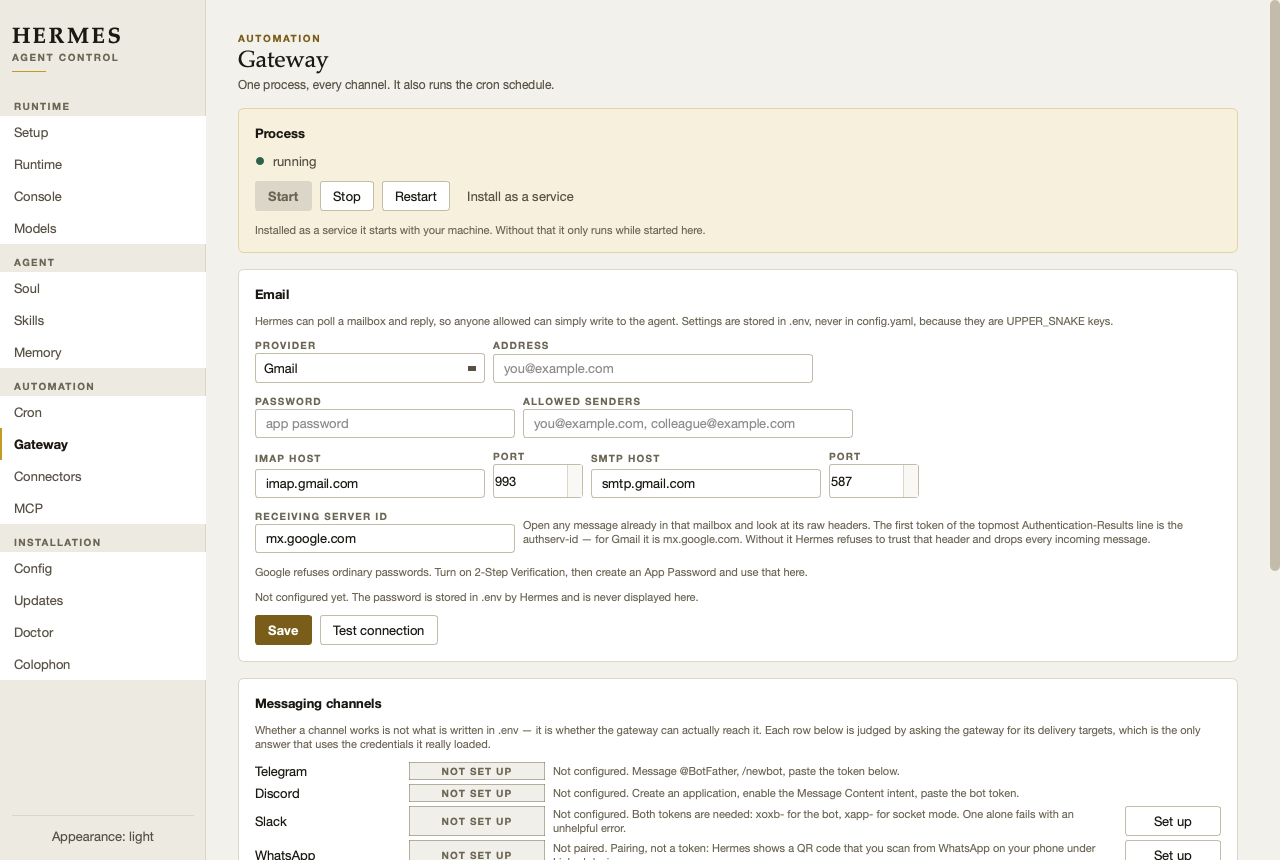
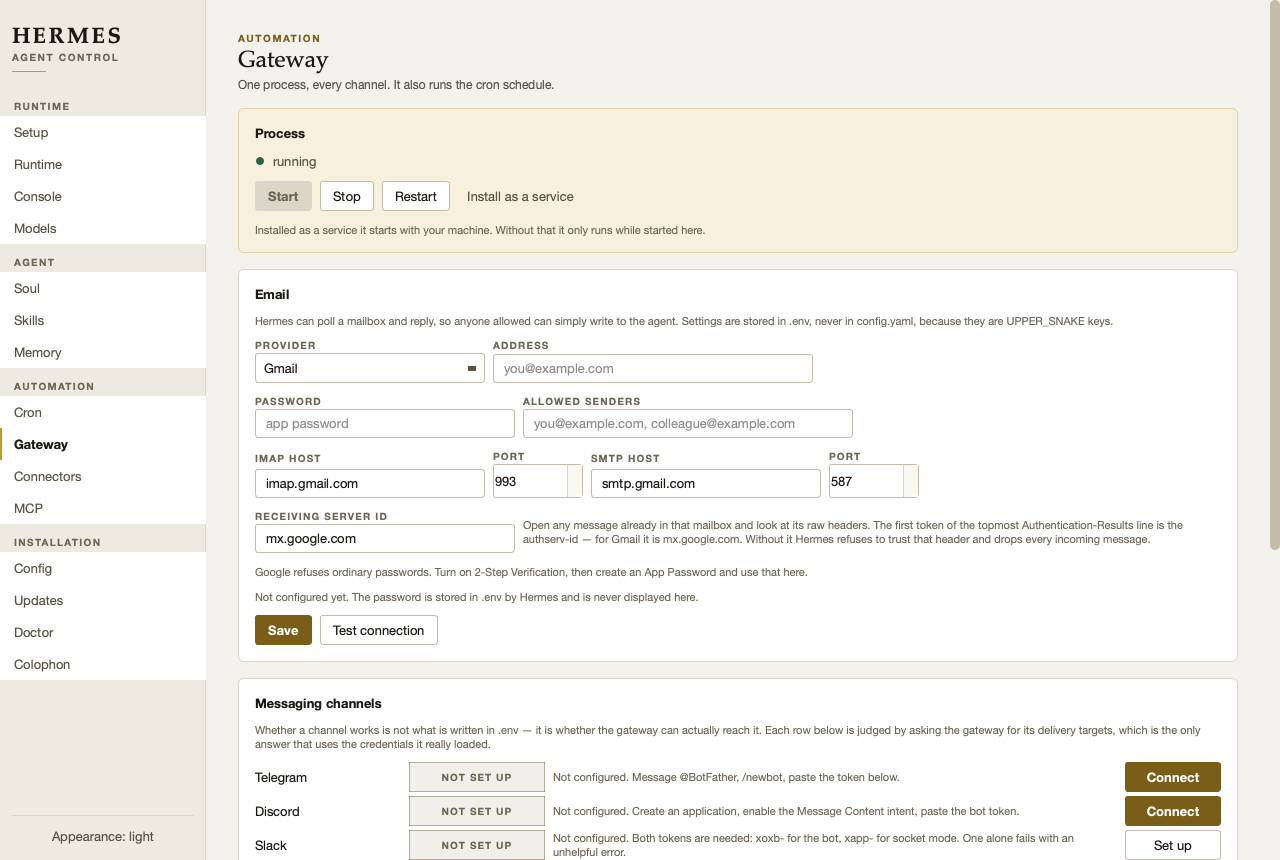
Gateway: a place to paste the token it tells you to paste
The Telegram row read "Message @BotFather, /newbot, paste the token
below" and there was nothing below. Every token-based channel said what
to do and offered nowhere to do it, so the only route was editing .env
by hand — which is exactly the thing this app exists to avoid.

Channels whose setup is a few secrets now get a Connect button and a
form: one field per secret, the allowlist beside them, and a save that
restarts the gateway. The restart is the point — the gateway reads
credentials at start, so without it the page would go on correctly but
uselessly reporting "configured, but not reachable".

Two refusals in the form rather than two confusing failures later. A
partial setup is rejected by name (Slack needs both tokens and fails
with an unhelpful error on one), and an empty secret field means "keep
what is stored", not "erase it" — the field never shows the stored
value, so treating blank as a deletion would silently disconnect a
working channel the moment someone opened the form to look at it.

The allowlist carries the warning that matters: Hermes denies anyone not
listed and says nothing when it does, so a channel left empty connects,
receives your message and ignores it, which is indistinguishable from a
broken bot.

WhatsApp and Slack keep Set up — a QR pairing and a manifest are not
fields.

diff --git a/hermes_control/ui/pages/gateway.py b/hermes_control/ui/pages/gateway.py
@@ -126,6 +126,32 @@ class GatewayPage(Page):
         card.add(self._allow_warning)
         layout.addWidget(card)
 
+        # One channel's credentials at a time. Slack needs two tokens and
+        # Teams three, so a field per secret inline in the row would make
+        # the table unreadable; opening a form keeps each channel's shape
+        # its own business.
+        self._form = w.Card("Connect a channel", accent=True)
+        self._form_title = w.label("", "body_bold")
+        self._form.add(self._form_title)
+        self._form_help = w.label("", "Faint", wrap=True)
+        self._form.add(self._form_help)
+        self._form_fields = QVBoxLayout()
+        self._form_fields.setSpacing(8)
+        self._form.add_layout(self._form_fields)
+        self._form_status = w.label("", "Faint", wrap=True)
+        self._form.add(self._form_status)
+        self._form.add(w.row(
+            w.button("Save and restart the gateway", "Primary",
+                     self._save_channel),
+            w.button("Cancel", "Quiet",
+                     lambda: self._form.setVisible(False)),
+            w.spacer()))
+        self._form.setVisible(False)
+        self._editing = None
+        self._inputs = {}
+        self._env: dict = {}
+        layout.addWidget(self._form)
+
         # Proof, rather than inference: a message that arrives came through
         # the gateway's own delivery path, with no model and no agent loop
         # in the way to be blamed for a failure.
@@ -295,6 +321,7 @@ class GatewayPage(Page):
             item = self._channel_box.takeAt(0)
             if item.widget():
                 item.widget().deleteLater()
+        self._env = data["secrets_full"]
         survey = data["survey"]
         words = {"live": ("CONNECTED", "live"),
                  "blocked": ("NOBODY ALLOWED", "attention"),
@@ -322,6 +349,14 @@ class GatewayPage(Page):
                 action = w.button(
                     "Set up", "",
                     lambda c=state.channel: self._setup_channel(c))
+            elif state.channel.secrets and state.state != "live":
+                # The row used to say "paste the token below" with nothing
+                # below to paste it into. A channel whose setup is a few
+                # secrets deserves a form, not an instruction.
+                action = w.button(
+                    "Connect", "Primary" if state.missing else "",
+                    lambda c=state.channel: self._open_form(c))
+            if action is not None:
                 action.setFixedWidth(96)
             holder = QWidget()
             line = QHBoxLayout(holder)
@@ -386,6 +421,96 @@ class GatewayPage(Page):
             "is never displayed here.")
         self._message.setText(
             f"Platforms active: {status.platforms or 'none configured'}")
+
+    def _open_form(self, channel) -> None:
+        """Show the fields one channel needs, and only those."""
+        self._editing = channel
+        self._inputs = {}
+        self._form.setVisible(True)
+        self._form_title.setText(f"Connect {channel.name}")
+        self._form_help.setText(channel.how)
+        self._form_status.setText("")
+        while self._form_fields.count():
+            item = self._form_fields.takeAt(0)
+            if item.widget():
+                item.widget().deleteLater()
+
+        env = self._env
+        for secret in channel.secrets:
+            field = QLineEdit()
+            field.setEchoMode(QLineEdit.EchoMode.Password)
+            field.setPlaceholderText(
+                "already set — leave blank to keep it"
+                if env.get(secret) else secret)
+            self._inputs[secret] = field
+            self._form_fields.addWidget(
+                self._labelled(secret, field, 420))
+
+        if channel.allow_key:
+            allow = QLineEdit()
+            allow.setText(env.get(channel.allow_key, ""))
+            allow.setPlaceholderText("your own account id")
+            self._inputs[channel.allow_key] = allow
+            self._form_fields.addWidget(
+                self._labelled(channel.allow_key, allow, 420))
+            self._form_fields.addWidget(w.label(
+                "Hermes denies anyone not listed here, and says nothing "
+                "when it does — so a channel left empty connects, receives "
+                "your message and ignores it, which looks exactly like a "
+                "broken bot. Put your own id in before you test it.",
+                "Faint", wrap=True))
+
+    def _save_channel(self) -> None:
+        channel = self._editing
+        if channel is None:
+            return
+        pairs = {}
+        for key, field in self._inputs.items():
+            value = field.text().strip()
+            # A blank secret means "keep what is there", not "erase it" —
+            # the field never shows the stored value, so treating empty as
+            # a deletion would silently disconnect a working channel the
+            # moment someone opened the form to read it.
+            if value or (key == channel.allow_key and
+                         self._env.get(key, "") != value):
+                pairs[key] = value
+        if not pairs:
+            self._form_status.setText("Nothing to save.")
+            return
+        missing = [s for s in channel.secrets
+                   if not pairs.get(s) and not self._env.get(s)]
+        if missing:
+            self._form_status.setText(
+                f"{channel.name} needs {', '.join(missing)} as well — "
+                f"it fails with an unhelpful error on a partial setup.")
+            return
+        self._form_status.setText("Saving\u2026")
+
+        def work():
+            results = [self.hermes.config_set(k, v) for k, v in pairs.items()]
+            # The gateway reads credentials at start. Without this the
+            # channel stays unreachable and the page correctly but
+            # confusingly reports "configured, not reachable".
+            restart = self.hermes.gateway("restart")
+            return results, restart
+
+        def done(outcome):
+            results, restart = outcome
+            bad = [r for r in results if not r.ok]
+            if bad:
+                self._form_status.setText(
+                    (bad[0].stderr or bad[0].stdout or bad[0].message).strip())
+                return
+            self._form_status.setText(
+                "Saved and the gateway restarted. Checking whether it can "
+                "reach the channel\u2026" if restart.ok else
+                f"Saved, but the gateway did not restart: "
+                f"{(restart.stderr or restart.message).strip()}")
+            self._form.setVisible(False)
+            self.refresh()
+
+        self.jobs.run(work, done,
+                      lambda e: self._form_status.setText(e))
 
     def _setup_channel(self, channel) -> None:
         """Hand an interactive setup flow to a real terminal.
